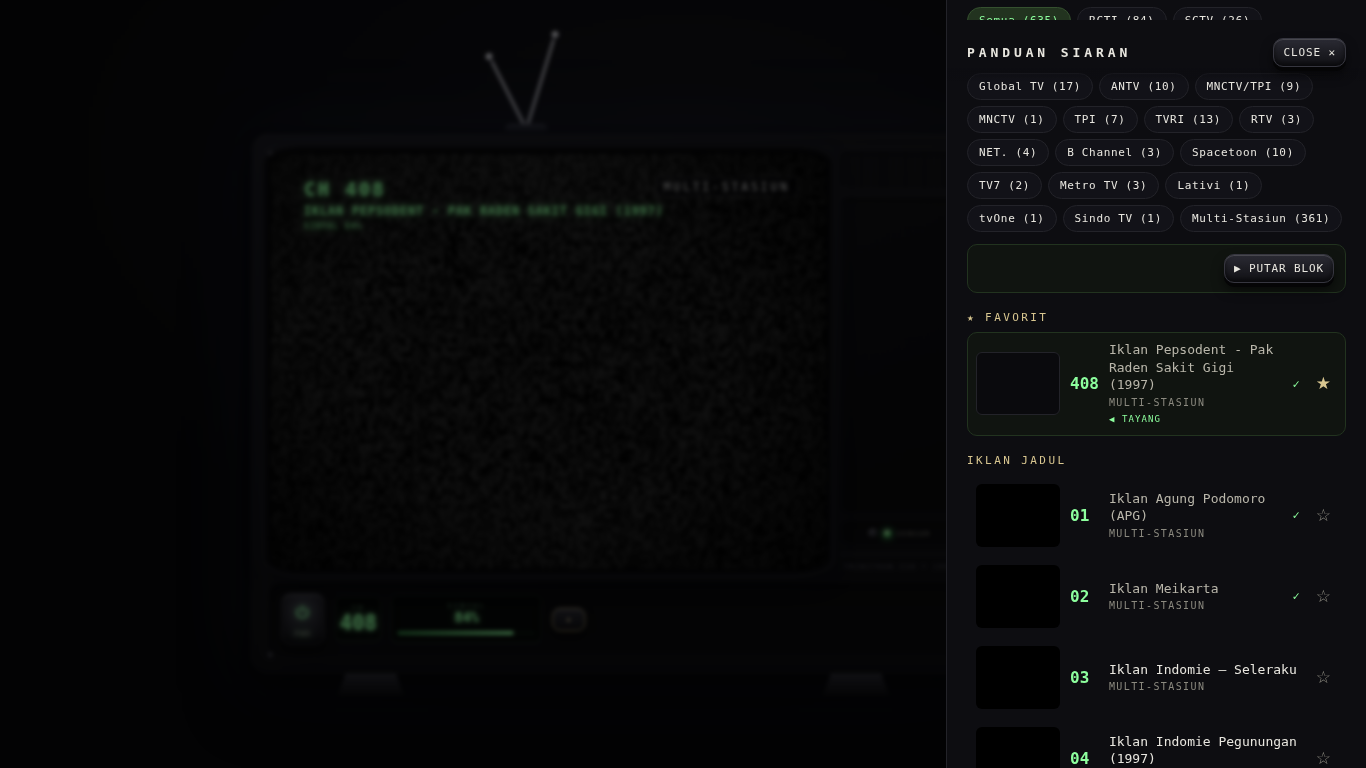
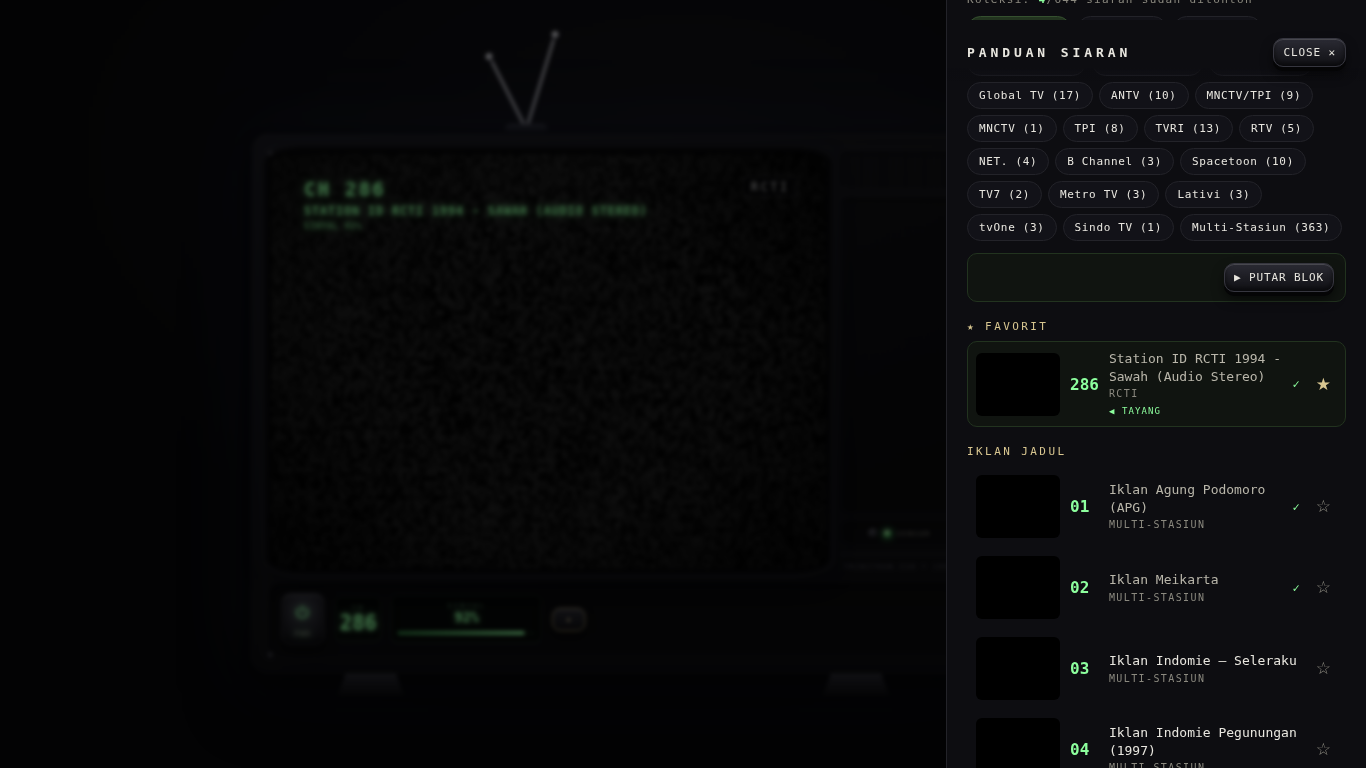
audit siklus 272: update docs dari data aktual (katalog 644, 271 siklus)

diff --git a/README.md b/README.md
@@ -90,7 +90,7 @@ Total **364 channel**:
 
 Sorotan katalog: Shaun the Sheep, Upin & Ipin, Marsupilami, Curious George, The Jungle Book (Shōnen Mowgli), Dragon Quest, Digimon Adventure/Tamers/Frontier, Ultraman Mebius/Tiga/Dyna/Gaia/Cosmos, Ninja Ranger, Kobo-chan, Cyborg Kurochan, Captain Tsubasa, Detektif Conan, iklan Kumon, Djarum 76, Gudang Garam, Teh Sosro, kompilasi iklan rokok & sabun & mie 90-an, dan puluhan ident stasiun (TVRI, RCTI Sawah 1994, SCTV Satu Untuk Semua, TPI 1999).
 
-**Verifikasi:** seluruh 635 id dicek satu per satu ke endpoint resmi (YouTube/Dailymotion/Vimeo oEmbed, metadata Internet Archive, HTTP 200, judul = klip iklan/opening/bumper asli — bukan video lirik, episode, atau cover) dan disapu ulang penuh pada audit terakhir. Arsip verifikasi disimpan di luar repo bersama state program. Tidak ada berkas video yang disimpan atau diunggah ulang di repositori ini.
+**Verifikasi:** seluruh 644 id dicek satu per satu ke endpoint resmi (YouTube/Dailymotion/Vimeo oEmbed, metadata Internet Archive, HTTP 200, judul = klip iklan/opening/bumper asli — bukan video lirik, episode, atau cover) dan disapu ulang penuh pada audit terakhir. Arsip verifikasi disimpan di luar repo bersama state program. Tidak ada berkas video yang disimpan atau diunggah ulang di repositori ini.
 
 ## Pengaturan
 

diff --git a/CATALOG_REPORT.md b/CATALOG_REPORT.md
@@ -1,6 +1,6 @@
 # CATALOG_REPORT.md — Laporan Katalog Siar
 
-> Status: **2026-10-11 06:40 WIB** · **635 entri terverifikasi** · target 5.300
+> Status: **2026-10-11 06:43 WIB** · **644 entri terverifikasi** · target 5.300
 > (sesi lanjutan 05:27–12:00 WIB; 265 siklus tercatat
 
 ## 1. Ringkasan angka
@@ -8,10 +8,10 @@
 | Metrik | Jumlah |
 |---|---|
 | Baseline awal (terverifikasi siklus 0–12) | 265 |
-| Ditambahkan sesi 2026-10-11 (semua jalur) | 370 |
-| **Total terverifikasi saat ini** | **635** |
+| Ditambahkan sesi 2026-10-11 (semua jalur) | 379 |
+| **Total terverifikasi saat ini** | **644** |
 | Target | 5.300 |
-| Capaian vs target | 12,0% |
+| Capaian vs target | 12,2% |
 | Ditolak sesi lanjutan (SKIP tier1/tier2/review manual) | 220+ |
 | Duplikat discovery (sudah di katalog) | 340+ |
 

diff --git a/AUDIT_LOG.md b/AUDIT_LOG.md
@@ -3724,3 +3724,28 @@ Semua commit lokal; tidak ada push/deploy.
 **Total siklus tercatat: 269**
 
 ---
+
+## Siklus 270 — 2026-10-11 06:42 WIB — Batch YouTube shampo: +1 (643→644)
+
+- **Area:** Katalog (iklan shampo).
+- **Metode:** web search -> 5 kandidat -> oEmbed (1 OK baru, 4 DUP).
+- **Hasil:** 1 YA (Sunsilk 1993).
+- **Test:** append -> 644 unik; smoke 18/18 PASS (dari 259).
+- **Commit:** lokal.
+- **Next:** Regression (5 siklus).
+
+**Total siklus tercatat: 270**
+
+---
+
+## Siklus 271 — 2026-10-11 06:43 WIB — Regression pass siklus 267–271
+
+- **Area:** Test suite (katalog +9).
+- **Hasil:** smoke 18/18, remote-click 18/18, hold-repeat 3/3, guide-chunk 7/7.
+  46/46 hijau.
+- **Test:** Semua dijalankan nyata.
+- **Next:** Update docs.
+
+**Total siklus tercatat: 271**
+
+---
